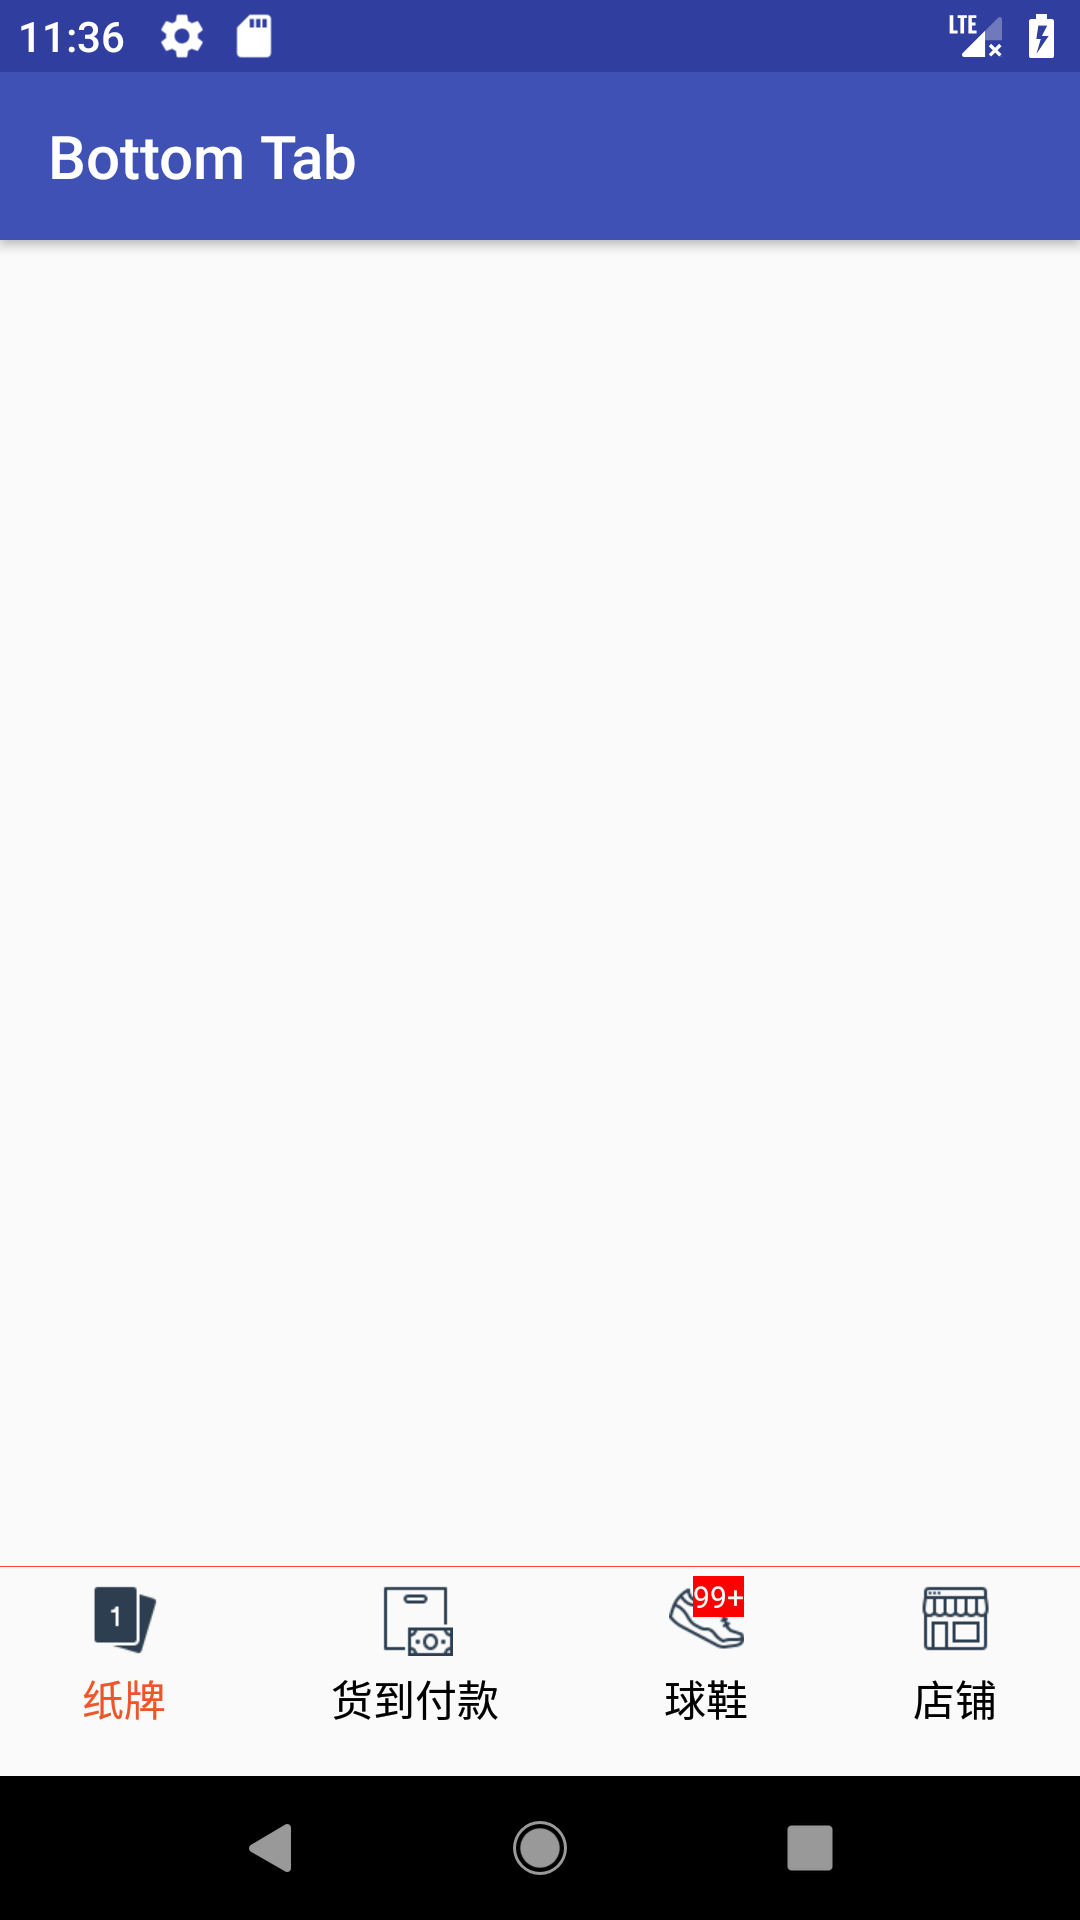
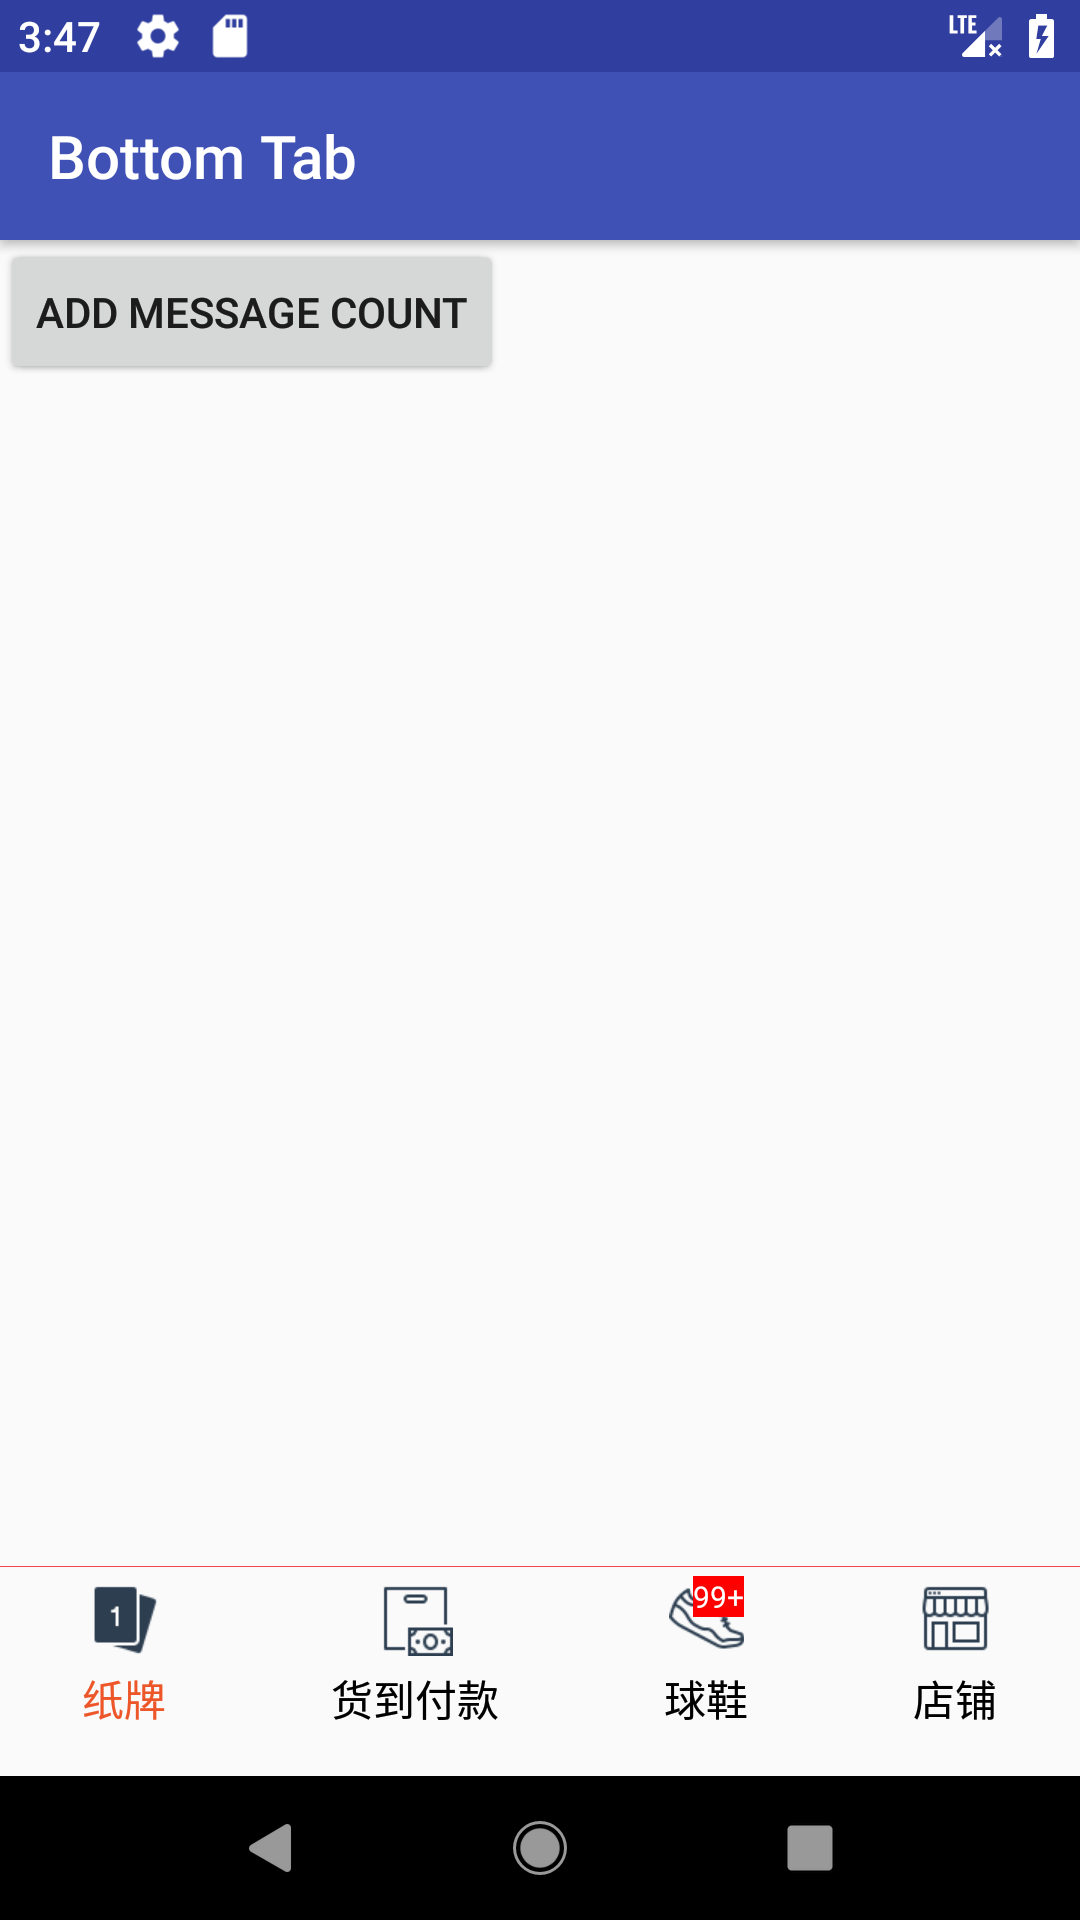
fix bug

Changed region(s): [[0.0, 0.125, 0.4583, 0.2188], [0.0, 0.0, 0.275, 0.0312]]

diff --git a/app/src/main/java/withkotlin/android/com/bottomtab/BottomTab.kt b/app/src/main/java/withkotlin/android/com/bottomtab/BottomTab.kt
@@ -24,18 +24,18 @@ class BottomTab(context: Context, attributeSet: AttributeSet?, defStyle: Int) : 
 
     private var lable_color = 0;
     private var lable_selected_color = 0
-    private lateinit var  messageView:TextView
+    private lateinit var messageView: TextView
     private var messageIndex = 0
 
-    open interface BottomTabItemClick{
-         fun setOnClickListener(v:View)
+    open interface BottomTabItemClick {
+        fun setOnClickListener(v: View)
     }
 
-    private lateinit var bottomTabItemClick:BottomTabItemClick
+    private lateinit var bottomTabItemClick: BottomTabItemClick
 
 
-    fun setOnClick(bottomTabItemClick:BottomTabItemClick ){
-       this.bottomTabItemClick = bottomTabItemClick
+    fun setOnClick(bottomTabItemClick: BottomTabItemClick) {
+        this.bottomTabItemClick = bottomTabItemClick
     }
 
     constructor (context: Context, attributeSet: AttributeSet?) : this(context, attributeSet, 0) {
@@ -54,7 +54,7 @@ class BottomTab(context: Context, attributeSet: AttributeSet?, defStyle: Int) : 
         icon_selected.add(typedArray.getResourceId(R.styleable.BottomTab_icon2_selected, -1))
         icon_selected.add(typedArray.getResourceId(R.styleable.BottomTab_icon3_selected, -1))
         icon_selected.add(typedArray.getResourceId(R.styleable.BottomTab_icon4_selected, -1))
-        if(showLabel){
+        if (showLabel) {
             labels.add(typedArray.getString(R.styleable.BottomTab_label1))
             labels.add(typedArray.getString(R.styleable.BottomTab_label2))
             labels.add(typedArray.getString(R.styleable.BottomTab_label3))
@@ -67,7 +67,7 @@ class BottomTab(context: Context, attributeSet: AttributeSet?, defStyle: Int) : 
                 1)
         rl.addRule(RelativeLayout.ABOVE)
         topLine.setBackgroundColor(Color.parseColor("#f34649"))
-        addView(topLine,rl)
+        addView(topLine, rl)
 
         var tabLayout = LinearLayout(context)
         tabLayout.orientation = LinearLayout.HORIZONTAL
@@ -83,11 +83,11 @@ class BottomTab(context: Context, attributeSet: AttributeSet?, defStyle: Int) : 
             layout.setOnClickListener({
                 bottomTabItemClick.setOnClickListener(it)
                 for (item in layouts) {
-                    if(item.tag ==layout.tag){
-                        (item.getChildAt(0) as ImageView).setImageResource(icon_selected[item.tag as Int])
+                    if (item.tag == layout.tag) {
+                        ((item.getChildAt(0) as FrameLayout).getChildAt(0) as ImageView).setImageResource(icon_selected[item.tag as Int])
                         (item.getChildAt(1) as TextView).setTextColor(lable_selected_color)
-                    }else{
-                        (item.getChildAt(0) as ImageView).setImageResource(icon[item.tag as Int])
+                    } else {
+                        ((item.getChildAt(0) as FrameLayout).getChildAt(0) as ImageView).setImageResource(icon[item.tag as Int])
                         (item.getChildAt(1) as TextView).setTextColor(lable_color)
                     }
                 }
@@ -96,13 +96,12 @@ class BottomTab(context: Context, attributeSet: AttributeSet?, defStyle: Int) : 
             var frameLayout = FrameLayout(context)
 
 
-
             var tv = TextView(context)
             tv.text = labels[i]
-            if(i==0){
+            if (i == 0) {
                 iv.setImageResource(icon_selected[i])
                 tv.setTextColor(lable_selected_color)
-            }else{
+            } else {
                 iv.setImageResource(icon[i])
                 tv.setTextColor(lable_color)
             }
@@ -114,22 +113,21 @@ class BottomTab(context: Context, attributeSet: AttributeSet?, defStyle: Int) : 
             lp.gravity = Gravity.CENTER
             //frameLayout add view
             frameLayout.addView(iv)
-            messageView = TextView(context)
             var fp: FrameLayout.LayoutParams = FrameLayout.LayoutParams(
                     ViewGroup.LayoutParams.WRAP_CONTENT,
                     ViewGroup.LayoutParams.WRAP_CONTENT)
             fp.gravity = Gravity.RIGHT
-            fp.topMargin =10
-            messageView.text = "99+"
-            messageView.setTextColor(Color.WHITE)
-            messageView.setBackgroundColor(Color.RED)
-            messageView.textSize = 10.0f
-            if(i==messageIndex){
-                frameLayout.addView(messageView,fp)
+            fp.topMargin = 10
+            if (i == messageIndex) {
+                messageView = TextView(context)
+                messageView.setTextColor(Color.WHITE)
+                messageView.setBackgroundColor(Color.RED)
+                messageView.textSize = 10.0f
+                frameLayout.addView(messageView, fp)
             }
-            layout.addView(frameLayout,lp)
-            if(showLabel){
-                layout.addView(tv,lp)
+            layout.addView(frameLayout, lp)
+            if (showLabel) {
+                layout.addView(tv, lp)
             }
             tabLayout.addView(layout, lp)
         }
@@ -137,9 +135,17 @@ class BottomTab(context: Context, attributeSet: AttributeSet?, defStyle: Int) : 
         var lp: LinearLayout.LayoutParams = LinearLayout.LayoutParams(
                 ViewGroup.LayoutParams.MATCH_PARENT,
                 ViewGroup.LayoutParams.MATCH_PARENT)
-        addView(tabLayout,lp)
+        addView(tabLayout, lp)
 
         typedArray.recycle()
+    }
+
+    fun setMessageCount(count: Int) {
+        if (count > 99)
+            messageView.text = "99+"
+        else
+            messageView.text = count.toString()
+
     }
 
     constructor (context: Context) : this(context, null)

diff --git a/app/src/main/java/withkotlin/android/com/bottomtab/MainActivity.kt b/app/src/main/java/withkotlin/android/com/bottomtab/MainActivity.kt
@@ -3,6 +3,7 @@ package withkotlin.android.com.bottomtab
 import android.support.v7.app.AppCompatActivity
 import android.os.Bundle
 import android.view.View
+import android.widget.Button
 import android.widget.Toast
 
 class MainActivity : AppCompatActivity(),BottomTab.BottomTabItemClick {
@@ -14,6 +15,11 @@ class MainActivity : AppCompatActivity(),BottomTab.BottomTabItemClick {
     override fun onCreate(savedInstanceState: Bundle?) {
         super.onCreate(savedInstanceState)
         setContentView(R.layout.activity_main)
-        findViewById<BottomTab>(R.id.bottom_tab).setOnClick(this)
+        var bottomTab = findViewById<BottomTab>(R.id.bottom_tab)
+        bottomTab.setOnClick(this)
+
+        findViewById<Button>(R.id.mAddBtn).setOnClickListener{
+            bottomTab.setMessageCount(101)
+        }
     }
 }

diff --git a/README.md b/README.md
@@ -36,4 +36,7 @@
        tab:label2="货到付款"
        tab:label3="球鞋"
        tab:label4="店铺"
-       tab:showLabel="true"/>
+       tab:showLabel="true"
+       tab:label_color="#000"
+       tab:label_selected_color="#ed5628"
+       tab:message_index="2"/>
